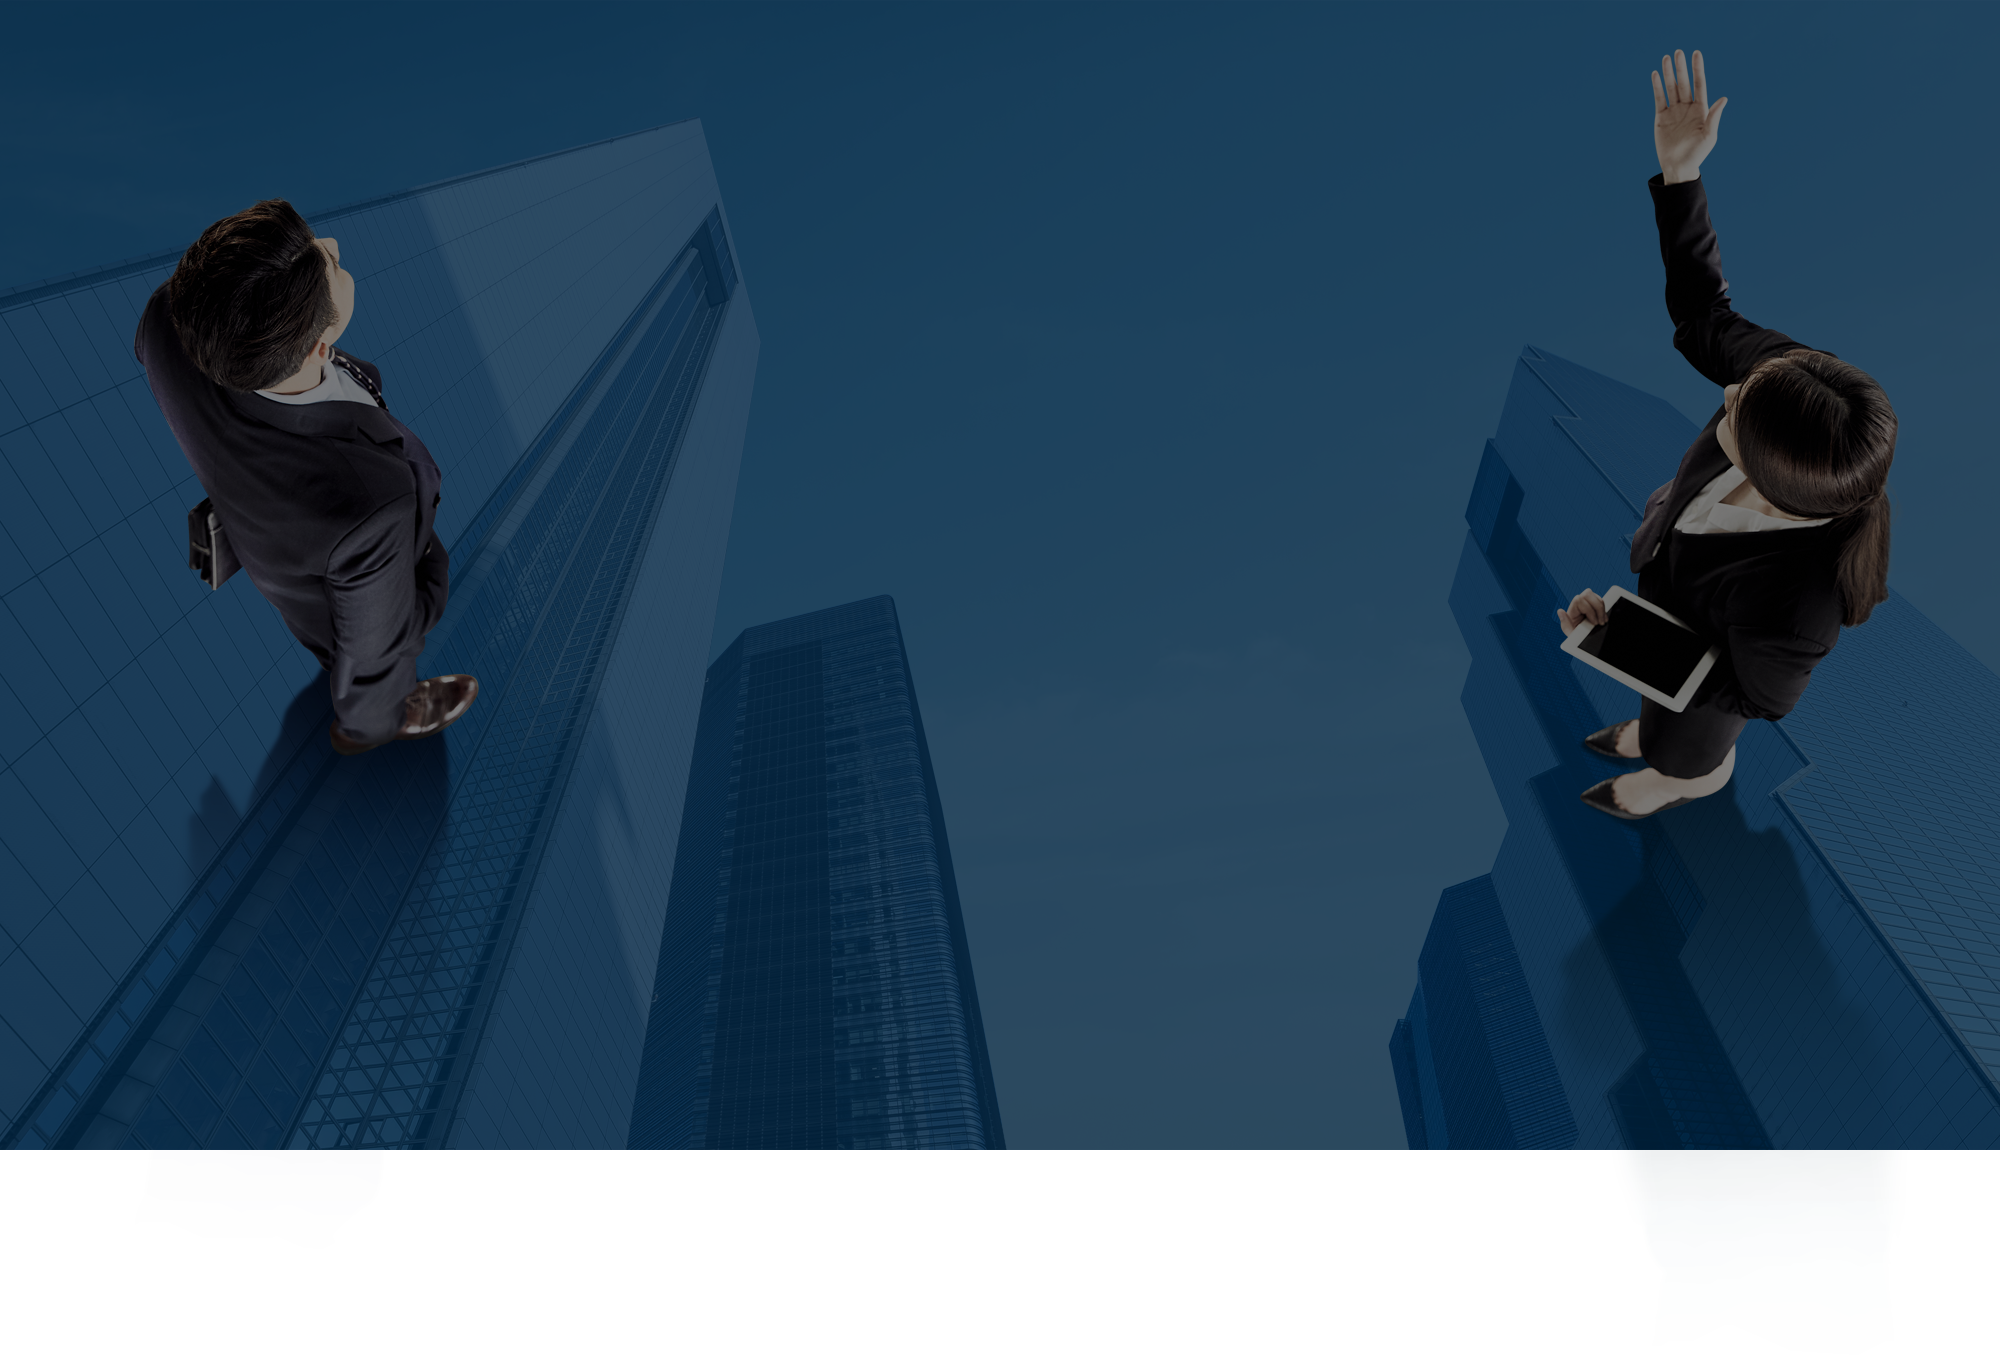
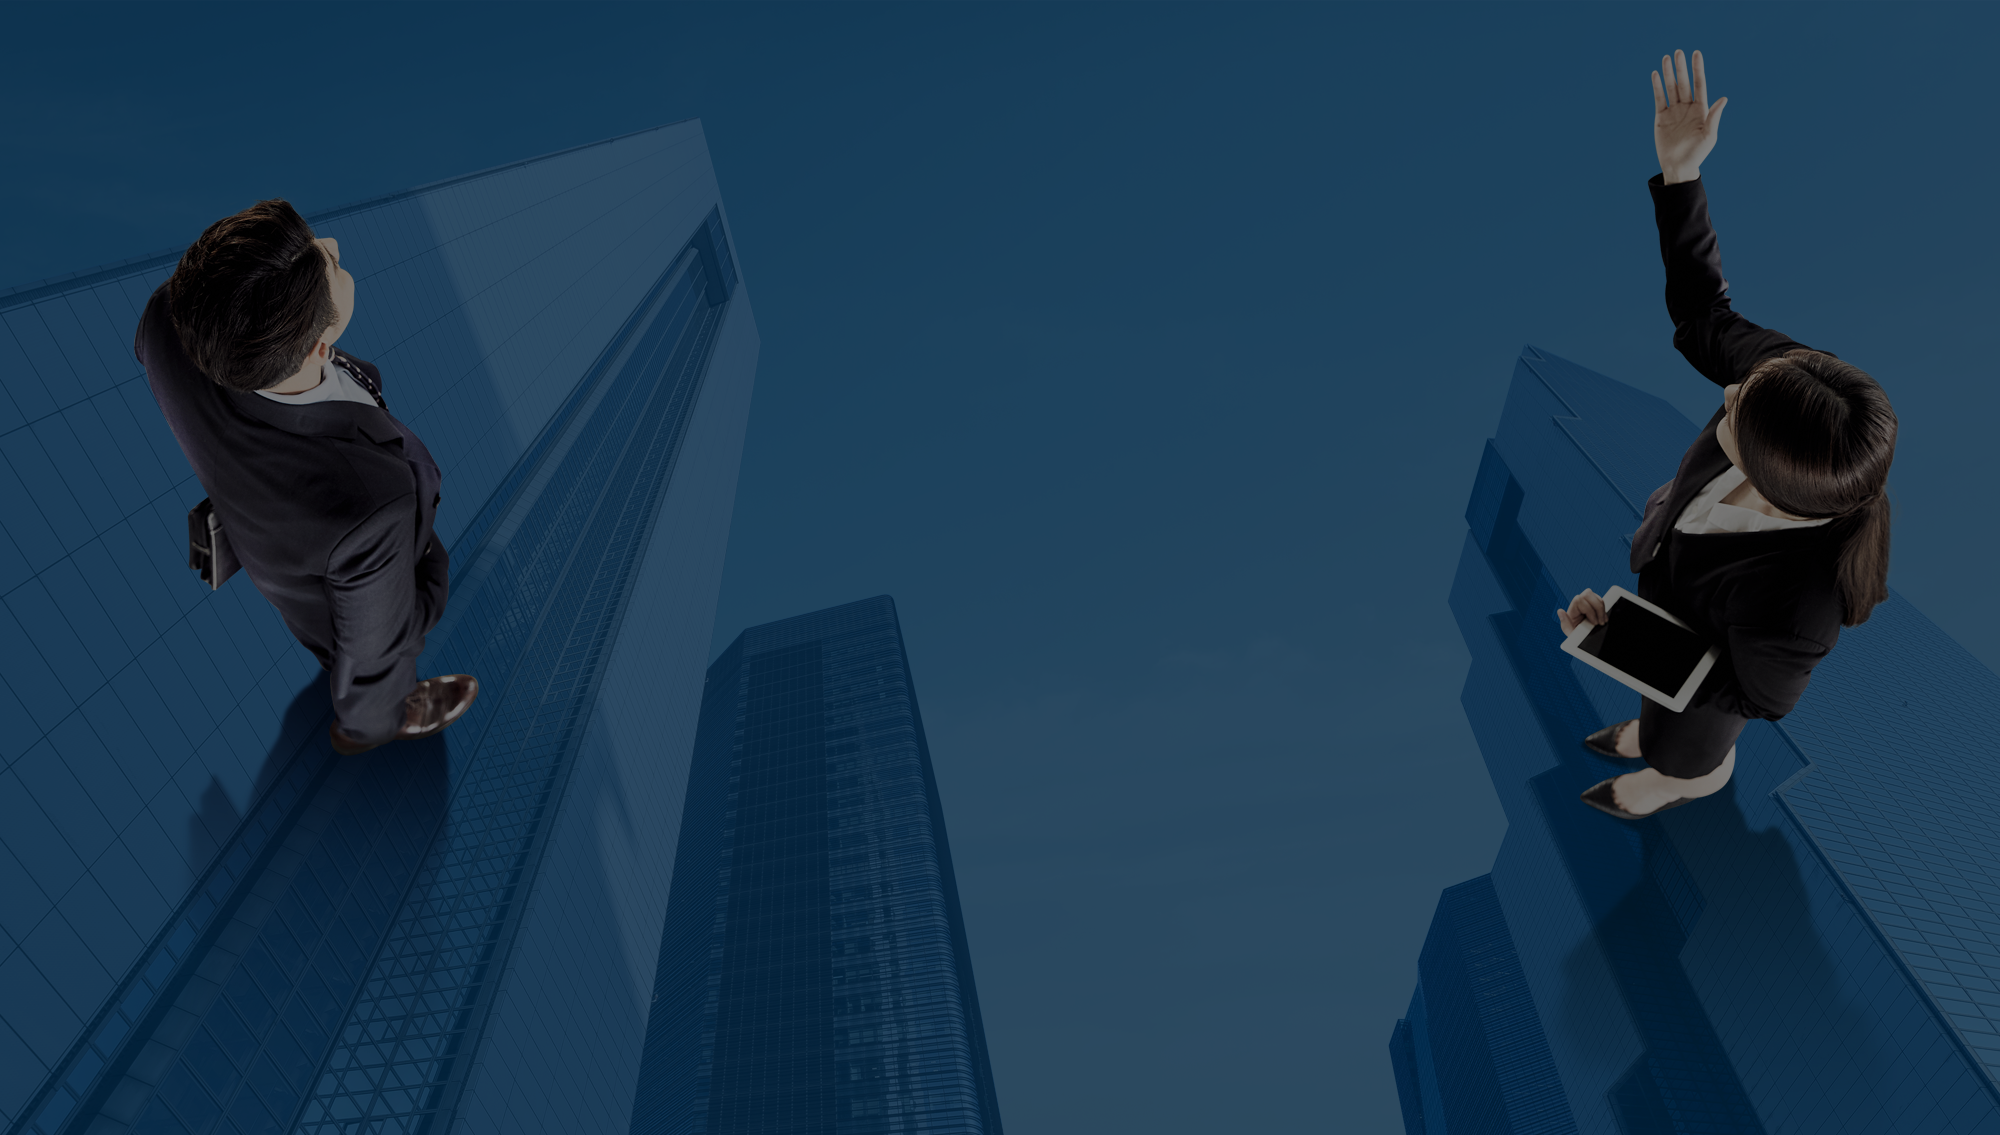
한국경영지원단 임시페이지 수정

diff --git a/datamonlanding-01.xyz/03/resource/css/sub.css b/datamonlanding-01.xyz/03/resource/css/sub.css
@@ -10,10 +10,6 @@
         margin: 17% 0;
     }
 
-    .con02_wrapper{
-        background-size: contain;
-    }
-
     .con02_01{
         width: 50%;
         margin: 10% 0;
@@ -81,10 +77,6 @@
     .con01_01{
         width: 70%;
         margin: 10% 0;
-    }
-
-    .con02_wrapper{
-        background-size: contain;
     }
 
     .con02_01{
@@ -168,13 +160,9 @@
         margin: 8% 0;
     }
 
-    .con02_wrapper{
-        background-size: cover;
-    }
-
     .con02_01{
-        width: 70%;
-        margin: 3% 0;
+        width: 90%;
+        margin: 10% 0;
     }
 
     .con03_wrapper{
